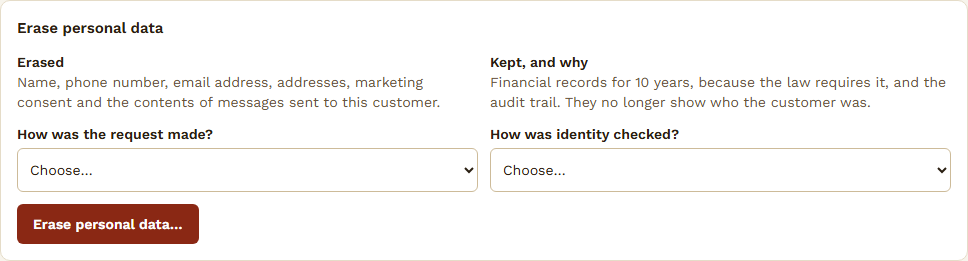
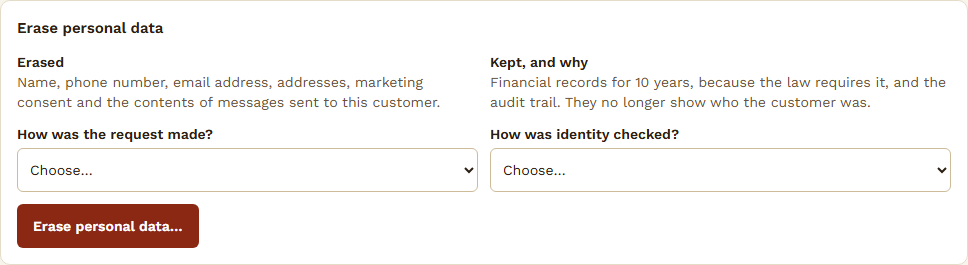
fix(ui): DialogHeader keeps titles clear of the 44 px close X; Amended (ab), (ac); retaken erase-panel screenshots

diff --git a/web/tests/components/back-office/owner-fixes-p6.test.tsx b/web/tests/components/back-office/owner-fixes-p6.test.tsx
@@ -1,7 +1,7 @@
 import { describe, expect, it } from 'vitest';
 import { render, screen } from '@testing-library/react';
 import { UnderlineTabs } from '@/components/back-office/UnderlineTabs';
-import { Dialog, DialogContent, DialogDescription, DialogTitle } from '@/components/ui/dialog';
+import { Dialog, DialogContent, DialogDescription, DialogHeader, DialogTitle } from '@/components/ui/dialog';
 import { placeRowLabel, placeRowValue } from '@/lib/subscriptions/copy';
 import type { SubscriptionTerms } from '@/lib/api/subscriptions';
 
@@ -34,6 +34,24 @@ describe('dialog close control', () => {
       </Dialog>,
     );
     expect(screen.getByRole('button', { name: 'Close' })).toHaveClass('size-11');
+  });
+});
+
+describe('dialog header', () => {
+  it('keeps a title clear of the close X: right padding past the 44 px target, whatever the dialog', () => {
+    render(
+      <Dialog open>
+        <DialogContent>
+          <DialogHeader data-testid="head">
+            <DialogTitle>A very long dialog title that would otherwise run under the close control</DialogTitle>
+            <DialogDescription>Body</DialogDescription>
+          </DialogHeader>
+        </DialogContent>
+      </Dialog>,
+    );
+    expect(screen.getByTestId('head')).toHaveClass('pr-8');
+    // A caller's own class is kept beside it.
+    expect(screen.getByTestId('head')).toHaveClass('mb-4');
   });
 });
 

diff --git a/web/components/ui/dialog.tsx b/web/components/ui/dialog.tsx
@@ -137,7 +137,8 @@ export const DialogContent = React.forwardRef<
 DialogContent.displayName = DialogPrimitive.Content.displayName;
 
 export function DialogHeader({ className, ...props }: React.HTMLAttributes<HTMLDivElement>) {
-  return <div className={cn('mb-4 flex flex-col gap-1.5', className)} {...props} />;
+  // pr-8: the 44 px close X reaches 50 px in from the edge and the panel pads 24 px, so a long title stops short of it.
+  return <div className={cn('mb-4 flex flex-col gap-1.5 pr-8', className)} {...props} />;
 }
 
 export function DialogFooter({ className, ...props }: React.HTMLAttributes<HTMLDivElement>) {

diff --git a/docs/handover/HO-P6-SUBSCRIPTIONS.md b/docs/handover/HO-P6-SUBSCRIPTIONS.md
@@ -125,6 +125,8 @@ Nothing subscription-shaped exists: `mocks/handlers/areas/subscriptions.ts:10` a
 | Amended | (y) 2026-11-09: fix requested by the owner 2026-11-09, the 44 px pass. (1) The global dialog close X (`components/ui/dialog.tsx`) is a 44 px button (`size-11`, moved to `right-1.5 top-1.5` so the 16 px icon sits where it did); this withdraws (j)(2)'s "24 px close X, not checked": `subscriptions-customer-360.spec.ts` no longer excludes it. (2) The orders "More filters" controls other than Channel (Status, Fulfilment, Payment method) and the two date inputs are `min-h-11`; this withdraws (l)(3)'s exception. `subscriptions-backoffice-360.spec.ts` now measures the whole "Order filters" form. Nothing else was relaxed |
 | Amended | (z) 2026-11-09: fix requested by the owner 2026-11-09, S1 visual findings. (1) The customer history table: the order-number link (44 px, centred) sat about one line below the date and the outcome; in the table layout it now starts at the row top (`items-start pt-2`, cell `py-0`), the target stays 44 px; the cards are unchanged. (2) The customer terms panel read "Deliver to me" then "Deliver to Home: ...". The row is now label "Deliver to" (pickup: "Collect from") and value "Home: House 7, Dhanmondi, Dhaka" (pickup: the outlet's name), through new `placeRowLabel` / `placeRowValue` in `copy.ts`; `placeText` and `termsSummaryText` (the one-line summary) are unchanged. The staff Terms panel used the same label ("Deliver to me" in staff's voice) and now uses `placeRowLabel` too |
 | Amended | (aa) 2026-11-09: README ADR table (owner request 2026-11-09): "ADR-FE-109 … 118" now says 109-114 were recorded by HO-P6, a row "ADR-FE-193 … ADR-FE-202 | HO-P6-SUBSCRIPTIONS (193-197 used)" is added and the next free number is ADR-FE-203. This also answers the sentence in §9 that said the integrator would update the table |
+| Amended | (ab) 2026-11-09: fix requested by the owner 2026-11-09, the discount label. The server sends nullable strings such as "Subscription discount (10%)": `lines[].discountLabel` on the customer order detail (`OrderViewModels.cs:16`), `totals.lineDiscountLabel` on the customer and staff order detail (`OrderViewModels.cs:20`), `lines[].discountLabel` (`BillingViewModels.cs:40`) and `totals.discountLabel` (`BillingViewModels.cs:51`) on the invoice detail. Web: the optional fields are on `OrderLine` (`my-orders.ts`), `OrderTotals` (`checkout.ts`), `InvoiceLine` and `InvoiceTotals` (`billing-staff.ts`). Where a label is present, the order summary's "Item discounts" row and the invoice totals' "Discounts" row read the label instead (amounts unchanged), a customer order line shows "{label} {amount}" under its price, and the invoice line's Discount cell shows the label under the amount; with `null` (or absent) every screen keeps its current text exactly. Staff order lines carry no label (the server sends none). Mocks (`mocks/handlers/subscriptions/discountLabel.ts`): the seeded subscription orders now carry the subscriber discount as a line discount (it was an order discount; the server labels from `LineDiscount`) and send the label; every other order sends `null`; the billing mock labels an invoice line whose source is a subscription order and the totals when every discounted line shares it. No seeded invoice comes from a subscription order, so the invoice labels are exercised by Vitest, not by a seed. The sign in the owner's example ("−৳18.00") is not added: these screens show discount amounts unsigned |
+| Amended | (ac) 2026-11-09: fix requested by the owner 2026-11-09. `DialogHeader` has `pr-8`, so a title never runs under the 44 px close X added by (x), for every dialog (all 31 dialogs that title themselves use `DialogHeader`). Unit test in `owner-fixes-p6.test.tsx`. The "after" erase-panel screenshots were retaken with the 44 px submit button |
 
 ## 2. Objective
 
